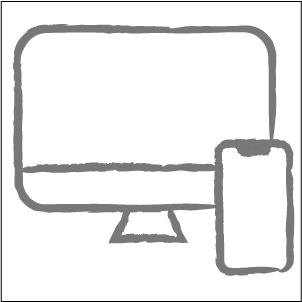
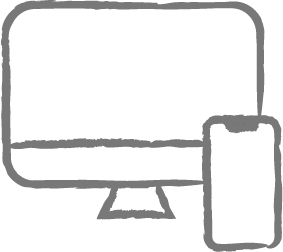
change image

Changed region(s): [[0.0, 0.0, 1.0, 1.0]]

diff --git a/package/css/style.css b/package/css/style.css
@@ -105,7 +105,7 @@
     content: '';
     width:40px;
     height: 40px;
-    background-image: image('/package/image/main_icon_bg.png') 0 0 no-repeat;
+    background: url('/package/image/main_icon_bg.png') center no-repeat;
     position: absolute;
     left:calc(50% - 20px);
     top:0;
@@ -119,6 +119,7 @@
     top:0;
     background-color: var(--text-color);
 }
+.main_feature_list li > img { width: 80px; }
 .main_feature_list li h3{
     font-size:18px;
     font-weight: 500;
